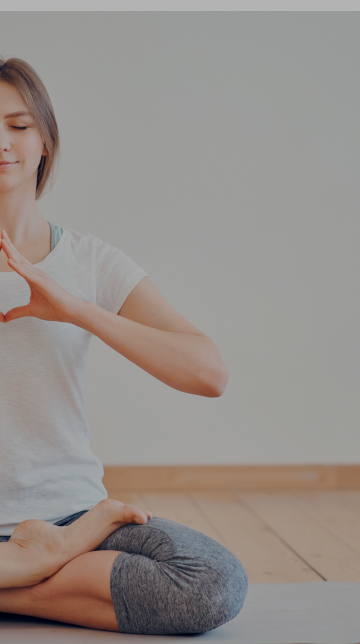
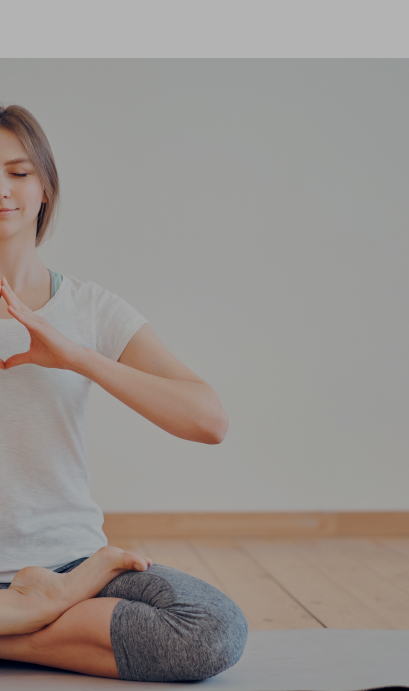
.

diff --git a/src/components/HomePage/HomePage.css b/src/components/HomePage/HomePage.css
@@ -62,7 +62,7 @@
 /* Mobile portrait media */
 @media only screen and (orientation: portrait) and (min-device-width: 320px) and (max-device-width: 767px) {
   #homepage {
-    height: 100%;
+    height: 90%;
     background: url('../../img/assets/back-mobile.jpg');
     background-position: bottom;
     background-repeat: no-repeat;
@@ -104,7 +104,7 @@
 /* IPHONEX portrait media */
 @media only screen and (orientation: portrait) and (min-device-width: 320px) and (max-device-width: 767px) and (min-device-height: 810px) {
   #homepage {
-    height: 100%;
+    height: 90%;
     background: url('../../img/assets/back-mobile-long.jpg');
     background-position: bottom;
     background-repeat: no-repeat;

diff --git a/src/components/Navbar/Navbar.css b/src/components/Navbar/Navbar.css
@@ -58,7 +58,7 @@
 @media only screen and (orientation: portrait) and (min-device-width: 320px) and (max-device-width: 767px) {
   #navbar {
     position: fixed;
-    height: 15.4em;
+    height: 10%;
     background: #b3ada9;
     z-index: 9999;
   }
